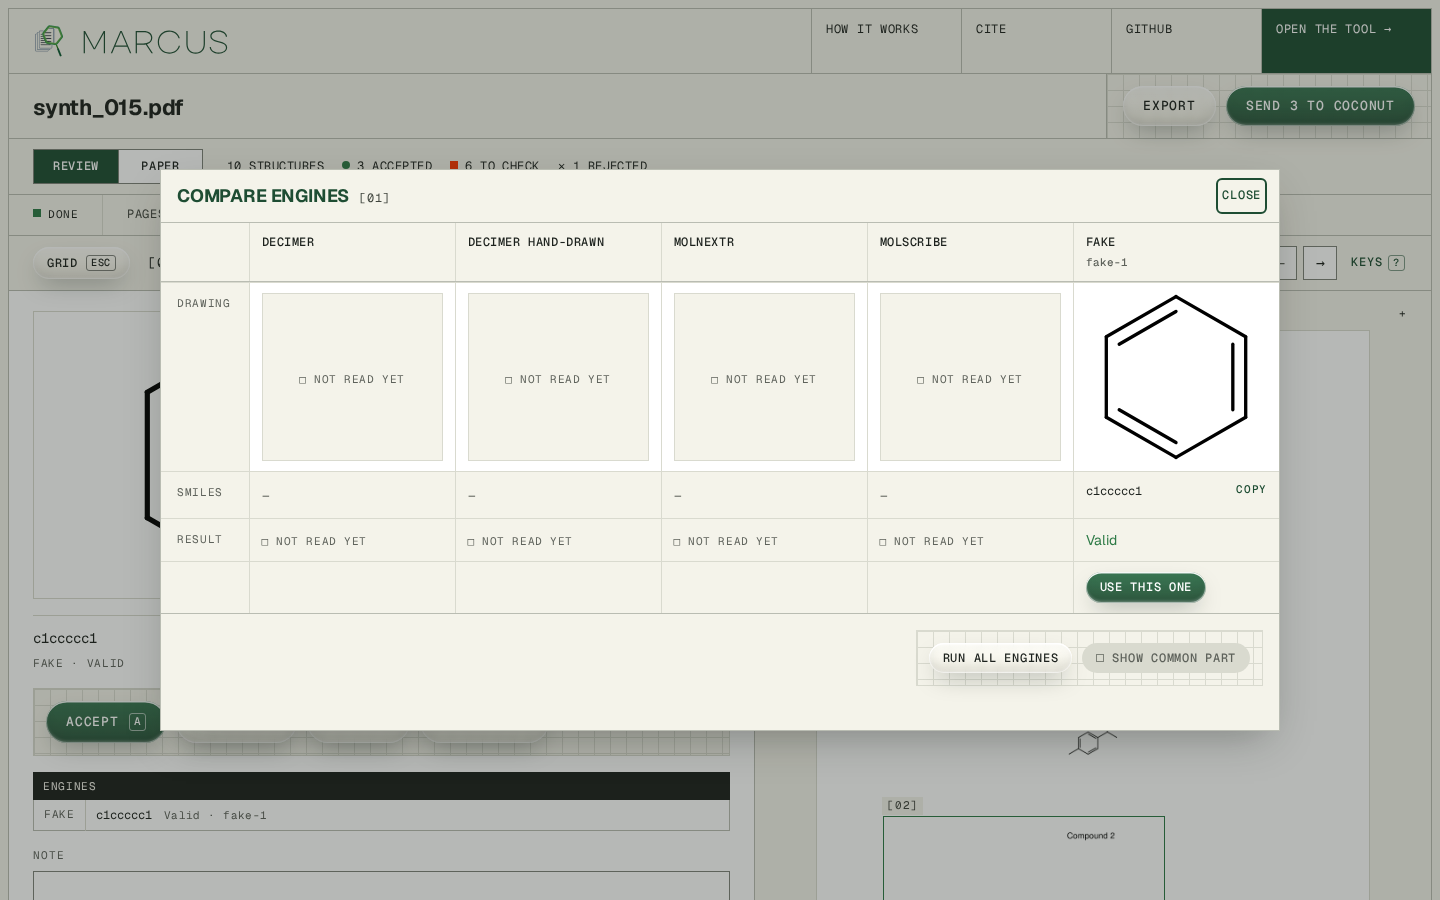
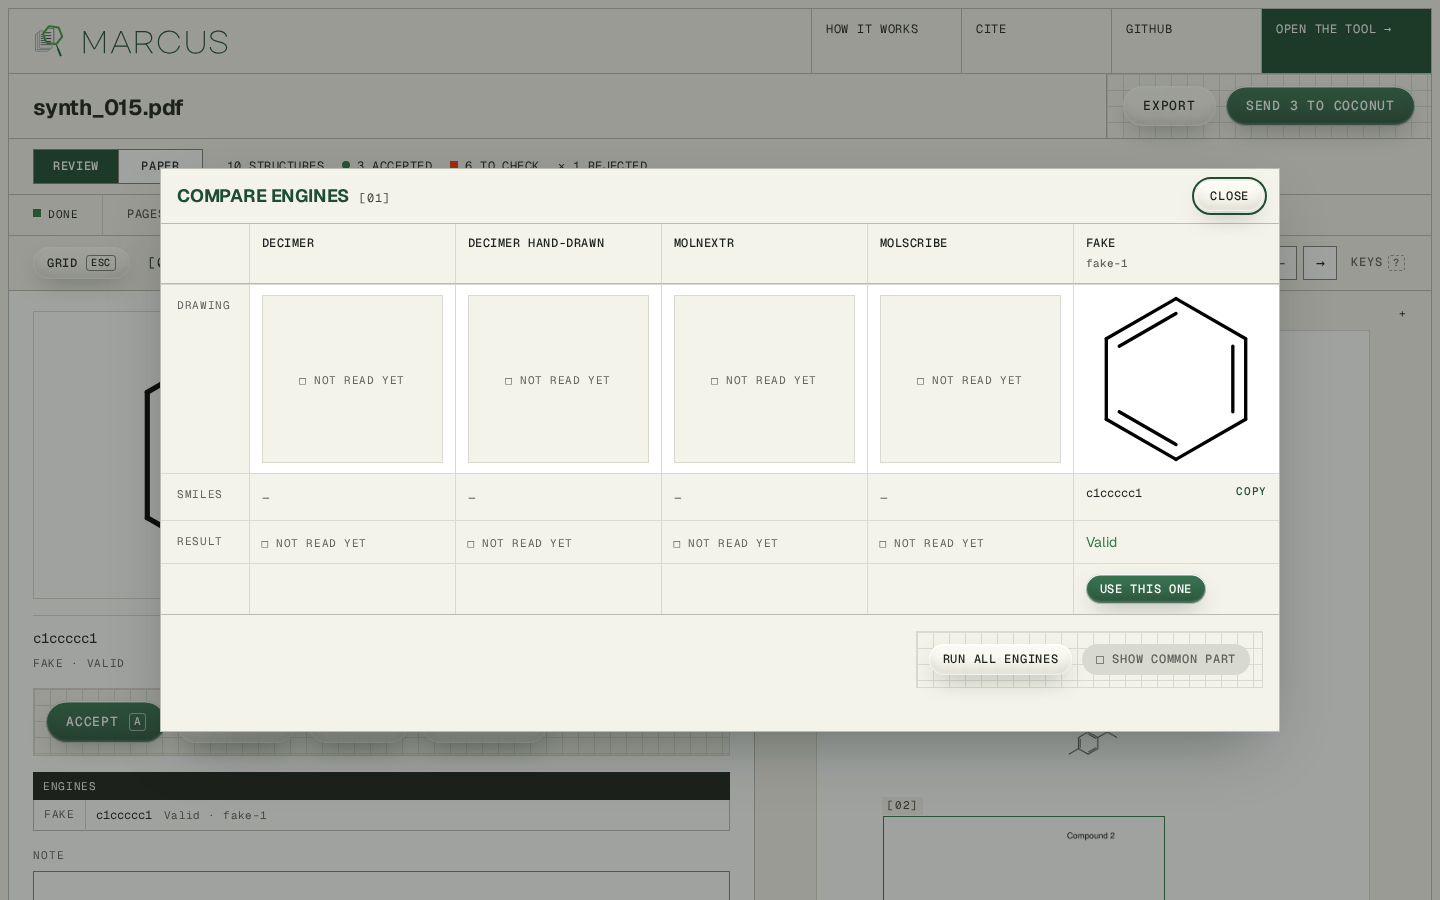
fix(frontend-v2): tool polish; document the type steps and elevation
- Small pills on cards and in focus mode keep the blur only: the SVG
  refraction has nothing to bend on flat white or paper (grid scroll on a
  200-card paper, headless: mean frame 50 ms against 79 ms).
- A page marker's [nn] tag fades when pointed at, so the page text under it
  can be read; the drawing stays uncovered.
- The About people list keeps the 58ch measure.
- DESIGN.md and design.json: the secondary type steps, the lift and scrim
  tokens, native dialogs, the glass Close; review screenshots retaken.

diff --git a/frontend-v2/src/ui/glass.css b/frontend-v2/src/ui/glass.css
@@ -44,6 +44,19 @@
   transition: transform 160ms cubic-bezier(0.16, 1, 0.3, 1);
 }
 
+/*
+ * Small pills on a structure card or in focus mode sit on flat white or paper, where the
+ * refraction has nothing to bend: they keep the blur only, so scrolling a long grid does not
+ * run the SVG filter for every pill. Only where the refraction runs at all (Chromium, glass
+ * not reduced, no forced colours); elsewhere the rules below hold.
+ */
+@media (not (prefers-reduced-transparency: reduce)) and (forced-colors: none) {
+  .card .glass:not(:disabled),
+  .fm .glass--sm:not(:disabled) {
+    backdrop-filter: blur(3px) saturate(1.8);
+  }
+}
+
 .glass--sm {
   gap: 8px;
   padding: 8px 14px;

diff --git a/frontend-v2/src/workspace/focus.css b/frontend-v2/src/workspace/focus.css
@@ -426,6 +426,18 @@ button.fm-marker:focus-visible {
   color: var(--text-2);
 }
 
+/* The tag hangs above the box, over the page's own text: the pointer on the marker or its
+   tag fades it, so the words under it can be read. */
+.fm-marker:hover .fm-marker__tag {
+  opacity: 0.15;
+}
+
+@media (prefers-reduced-motion: no-preference) {
+  .fm-marker__tag {
+    transition: opacity 160ms cubic-bezier(0.16, 1, 0.3, 1);
+  }
+}
+
 .fm-marker--current .fm-marker__tag {
   left: 0;
   margin-bottom: 14px;

diff --git a/frontend-v2/src/workspace/paper.css b/frontend-v2/src/workspace/paper.css
@@ -246,6 +246,18 @@
   color: var(--ink);
 }
 
+/* The tag hangs above the box, over the page's own text: the pointer on the marker or its
+   tag fades it, so the words under it can be read. */
+.pv-marker:hover .pv-marker__tag {
+  opacity: 0.15;
+}
+
+@media (prefers-reduced-motion: no-preference) {
+  .pv-marker__tag {
+    transition: opacity 160ms cubic-bezier(0.16, 1, 0.3, 1);
+  }
+}
+
 .pv-marker:hover {
   background-color: color-mix(in srgb, var(--orange) 8%, transparent);
 }

diff --git a/frontend-v2/src/pages/info.css b/frontend-v2/src/pages/info.css
@@ -97,6 +97,7 @@
 }
 
 .people dd {
+  max-width: 58ch; /* the page's reading measure */
   margin: 2px 0 0;
   color: var(--text-2);
 }

diff --git a/frontend-v2/DESIGN.md b/frontend-v2/DESIGN.md
@@ -67,6 +67,51 @@ typography:
     fontSize: "12px"
     fontWeight: 400
     lineHeight: 1.5
+  display-info:
+    fontFamily: "Geist, ui-sans-serif, system-ui, sans-serif"
+    fontSize: "clamp(36px, 2.6vw + 18px, 60px)"
+    fontWeight: 700
+    lineHeight: 0.92
+    letterSpacing: "-0.035em"
+  drop-title:
+    fontFamily: "Geist, ui-sans-serif, system-ui, sans-serif"
+    fontSize: "44px"
+    fontWeight: 700
+    lineHeight: 1
+    letterSpacing: "-0.02em"
+  empty-title:
+    fontFamily: "Geist, ui-sans-serif, system-ui, sans-serif"
+    fontSize: "32px"
+    fontWeight: 700
+    lineHeight: 1
+    letterSpacing: "-0.02em"
+  note-title:
+    fontFamily: "Geist, ui-sans-serif, system-ui, sans-serif"
+    fontSize: "24px"
+    fontWeight: 700
+    lineHeight: 1.05
+    letterSpacing: "-0.02em"
+  heading-sm:
+    fontFamily: "Geist, ui-sans-serif, system-ui, sans-serif"
+    fontSize: "20px"
+    fontWeight: 700
+    lineHeight: 1.15
+  dialog-title:
+    fontFamily: "Geist, ui-sans-serif, system-ui, sans-serif"
+    fontSize: "18px"
+    fontWeight: 700
+    lineHeight: 1.2
+    letterSpacing: "-0.01em"
+  prose-lg:
+    fontFamily: "Geist, ui-sans-serif, system-ui, sans-serif"
+    fontSize: "17px"
+    fontWeight: 400
+    lineHeight: 1.3
+  prose-md:
+    fontFamily: "Geist, ui-sans-serif, system-ui, sans-serif"
+    fontSize: "15px"
+    fontWeight: 400
+    lineHeight: 1.45
   wordmark:
     fontFamily: "Gmarket Sans, Geist, sans-serif"
     fontSize: "28px"
@@ -204,7 +249,7 @@ A muted field palette: warm paper and graphite rules, one deep forest green that
 
 ### Secondary
 - **Signal Orange** (orange): the colour of "needs your eyes". The To check badge fill, the 2px inside edge of a card to check, the dashed outline of a structure being read, bounding boxes on the example page, and the orange glass pill for the first action on a screen (Upload a PDF). Shapes and fills only, never small text.
-- **Orange Ink** (orange-ink): small orange text, such as the [01] index tags and "DECIMER and MolNexTR differ" notes.
+- **Orange Ink** (orange-ink): small orange text, such as the [01] index tags and "Engines differ" notes.
 
 ### Tertiary
 - **Charcoal** (charcoal): the specimen-label header bar, the Failed tag, the rejected stamp ring and the diagonal strike, and the error toast.
@@ -252,6 +297,16 @@ A muted field palette: warm paper and graphite rules, one deep forest green that
 - **Control label** (Geist Mono 500, 13px, 0.06em, uppercase; 12px in small pills, segments and nav cells): every button and nav cell.
 - **Data** (Geist Mono 400, 12px, line-height 1.5): SMILES and other machine strings, wrapping anywhere, never uppercased.
 
+Secondary steps, each kept to one kind of thing:
+- **Display info** (Geist 700, clamp(36px, 2.6vw + 18px, 60px), uppercase, forest green): the h1 of About, Privacy and Disclaimer.
+- **Drop title** (Geist 700, 44px, uppercase): the tool home's drop zone heading.
+- **Empty title** (Geist 700, 32px, line-height 1, uppercase): a paper or image that is gone.
+- **Note title** (Geist 700, 24px, line-height 1.05, uppercase): the desktop-only note and the COCONUT results heading.
+- **Heading small** (Geist 700, 20px, line-height 1.15, uppercase): info-page section headings and the tool home's Images heading; the mono readout in an empty drawing takes the same size.
+- **Dialog title** (Geist 700, 18px, line-height 1.2, -0.01em, uppercase): the editor, COCONUT, Compare and Keys dialogs; the info lede (Geist 400) and the example card's failure title share the size.
+- **Prose large** (Geist, 17px, line-height 1.3): paper names in the tool's list (700) and the empty-list line.
+- **Prose medium** (Geist 400, 15px, line-height 1.45): text in the tool: field values, notes, problems, the paper view's text, the focus-mode step arrows.
+
 ### Named Rules
 **The Two Weights Rule.** Geist ships 400 and 700, Geist Mono 400 and 500, with font-synthesis-weight off. No other weights.
 
@@ -269,13 +324,15 @@ The review grid is auto-fill columns of at least 300px structure cells. Breakpoi
 
 ## Elevation & Depth
 
-The sheet is flat. Depth comes from tone (paper, white cells, sunken bands, the hatched failed ground) and from hairlines, not shadows. The example page on the landing lies flat with only a 1px hair underline. Shadows belong to the few objects that float above the sheet, all in one green-black ambient family (rgba(15, 30, 22, 0.35)): glass pills, toasts and menus, and dialogs (the structure editor and the COCONUT submission).
+The sheet is flat. Depth comes from tone (paper, white cells, sunken bands, the hatched failed ground) and from hairlines, not shadows. The example page on the landing and the page in the paper view lie flat with only a 1px hair underline. Shadows belong to the few objects that float above the sheet, all in one green-black ambient family (rgba(15, 30, 22, 0.35)): glass pills, toasts and menus, and dialogs (the structure editor, the COCONUT submission, Compare engines and Keys). Every value is a token in `tokens.css`; no stylesheet writes a shadow or scrim colour of its own (pinned in `styles.test.ts`).
 
 ### Shadow Vocabulary
-- **Glass lift** (`0 10px 24px -8px rgba(15, 30, 22, 0.35)` plus the pill's inner highlights): glass pill buttons; also toasts and the card's floating menu.
-- **Menu lift** (`0 12px 28px -10px rgba(15, 30, 22, 0.35)`): workspace disclosures such as Export.
-- **Dialog lift** (`0 24px 64px -24px rgba(15, 30, 22, 0.45)`): the editor and COCONUT dialogs.
-- **Solid pill fallback** (`0 6px 16px -8px rgba(15, 30, 22, 0.35)`): glass pills under reduced transparency or without backdrop-filter.
+- **Glass lift** (`--lift-glass`, `0 10px 24px -8px rgba(15, 30, 22, 0.35)`): glass pills (after `--glass-shine`); also toasts and the card's floating menus.
+- **Glass shine** (`--glass-shine`): the pill's inner light: a top highlight, a soft white rim and a bottom shade (four insets).
+- **Menu lift** (`--lift-menu`, `0 12px 28px -10px rgba(15, 30, 22, 0.35)`): workspace disclosures such as Export.
+- **Dialog lift** (`--lift-dialog`, `0 24px 64px -24px rgba(15, 30, 22, 0.45)`): every dialog: the editor, COCONUT, Compare and Keys.
+- **Scrim** (`--scrim`, `rgba(28, 33, 29, 0.42)`): the backdrop of every dialog. Dialogs are native `<dialog>` elements opened as modals, so the page behind is inert.
+- **Solid pill fallback** (`--lift-pill-solid`, `0 6px 16px -8px rgba(15, 30, 22, 0.35)`): glass pills under reduced transparency or without backdrop-filter.
 
 ### Named Rules
 **The Flat Sheet Rule.** Nothing printed on the sheet casts a shadow. Only objects that act or float (pills, menus, toasts, dialogs) lift.
@@ -294,10 +351,11 @@ Liquid glass on paper: tactile pills that are the only shiny thing on a matte sh
 - **Orange glass:** gradient rgba(255,118,72,.95) to rgba(250,54,0,.9), on-orange text: the first action (Upload a PDF).
 - **Green glass:** gradient rgba(46,110,74,.95) to rgba(30,77,51,.92), on-green text: commit actions (Accept, Send to COCONUT).
 - **Clear glass:** white 70% to 25% gradient, ink text: everything else (Reject, Compare, More, Export, Copy).
-- **Material:** backdrop-filter blur(3px) saturate(1.8) with the #marcus-glass SVG refraction where supported; inner top highlight and a soft bottom shade.
+- **Material:** backdrop-filter blur(3px) saturate(1.8) with the #marcus-glass SVG refraction where supported; inner top highlight and a soft bottom shade. Pills on a structure card and small pills in focus mode keep the blur only: on flat white or paper the refraction has nothing to bend.
 - **Hover / Focus:** scale(1.03) over 160ms cubic-bezier(0.16, 1, 0.3, 1) when motion is allowed; 2px forest-green outline at 2px offset. Disabled is a flat hair pill with muted text.
 - **Fallbacks:** solid orange, green, or white with a control-border ring under reduced transparency or without backdrop-filter; a ButtonBorder edge in forced colours.
-- **Text links as buttons:** small Geist Mono 500 uppercase in green with an underline that appears on hover (Copy, Select all shown).
+- **Text links as buttons:** small Geist Mono 500 uppercase in green with an underline that appears on hover (Copy, Select all shown, Back to start).
+- **Dialog Close:** always the small clear glass pill, in the dialog's head cell.
 
 ### Segmented filters
 - **Style:** a control-border box of square surface segments divided by control-border rules, Geist Mono 500 12px uppercase, muted tabular counts.
